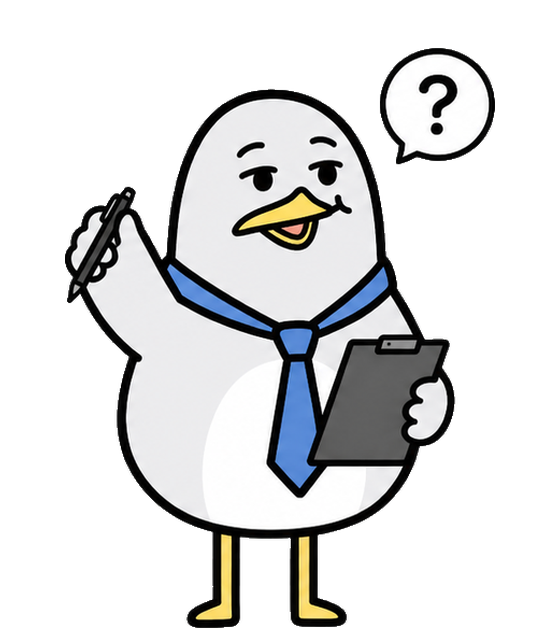
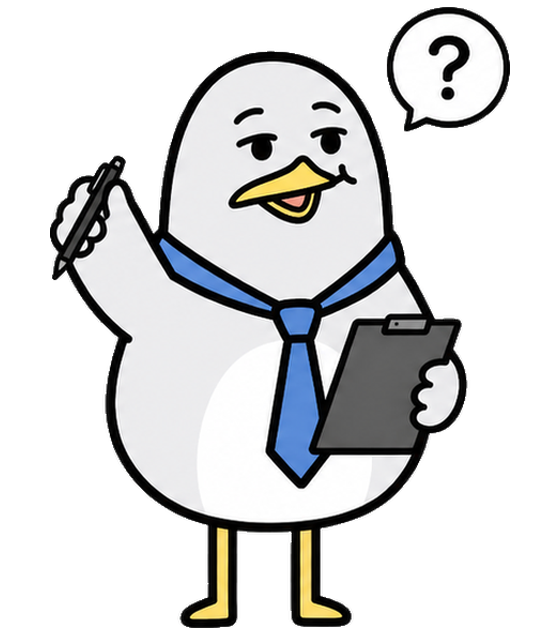
fix: 말풍선 포즈는 본체 높이 기준으로 스케일해 크기 맞춤
머리 위 장식을 실루엣에서 빼 본체가 작아지던 lv1 pose-01 등을 다른 전신과 같은 본체 높이로 맞춘다.

Changed region(s): [[0.0911, 0.0, 0.9107, 1.0]]

diff --git a/scripts/normalize_stage_sprites.py b/scripts/normalize_stage_sprites.py
@@ -1,42 +1,76 @@
-"""Normalize interviewer full-body/pose sprites to identical canvas + silhouette height."""
+"""Normalize stage sprites to identical body silhouette height (excludes speech bubbles/stars)."""
 from __future__ import annotations
 
 from pathlib import Path
 
 import numpy as np
 from PIL import Image
+from scipy import ndimage
 
 ROOT = Path(__file__).resolve().parents[1] / "public" / "interviewers"
 CANVAS_W, CANVAS_H = 560, 640
-TARGET_H = 580
+TARGET_BODY_H = 580
 PAD_BOTTOM = 12
+STRUCT = ndimage.generate_binary_structure(2, 2)
 
 
-def content_bbox(im: Image.Image) -> tuple[int, int, int, int]:
-    arr = np.array(im)
-    alpha = arr[..., 3] > 0
-    ys, xs = np.where(alpha)
-    return int(xs.min()), int(ys.min()), int(xs.max()) + 1, int(ys.max()) + 1
+def body_mask(arr: np.ndarray) -> np.ndarray:
+    opaque = arr[..., 3] > 0
+    labels, n = ndimage.label(opaque, structure=STRUCT)
+    if n == 0:
+        return opaque
+    sizes = ndimage.sum(opaque, labels, index=np.arange(1, n + 1))
+    main_id = int(np.argmax(sizes)) + 1
+    main = labels == main_id
+    main_size = float(sizes[main_id - 1])
+    main_top = int(np.where(main)[0].min())
+    main_h = int(np.where(main)[0].max() - main_top + 1)
+    body = main.copy()
+    dilated = ndimage.binary_dilation(main, structure=STRUCT, iterations=18)
+    for i in range(1, n + 1):
+        if i == main_id:
+            continue
+        m = labels == i
+        ys = np.where(m)[0]
+        top = int(ys.min())
+        size = float(sizes[i - 1])
+        if size < main_size * 0.18 and (top < main_top or float(ys.mean()) < main_top + main_h * 0.18):
+            continue
+        if (m & dilated).any() or int(ys.max()) >= main_top:
+            body |= m
+    return body
 
 
 def normalize(path: Path) -> None:
     im = Image.open(path).convert("RGBA")
-    l, t, r, b = content_bbox(im)
-    crop = im.crop((l, t, r, b))
-    cw, ch = crop.size
-    scale = TARGET_H / ch
-    new_w = max(1, int(round(cw * scale)))
-    resized = crop.resize((new_w, TARGET_H), Image.Resampling.LANCZOS)
-    canvas = Image.new("RGBA", (CANVAS_W, CANVAS_H), (0, 0, 0, 0))
+    arr = np.array(im)
+    body = body_mask(arr)
+    ys = np.where(body)[0]
+    bt, bb = int(ys.min()), int(ys.max())
+    body_h = bb - bt + 1
+    full = arr[..., 3] > 0
+    fys, fxs = np.where(full)
+    ft, fb, fl, fr = int(fys.min()), int(fys.max()), int(fxs.min()), int(fxs.max())
+    crop = im.crop((fl, ft, fr + 1, fb + 1))
+    body_top_in_crop = bt - ft
+    scale = TARGET_BODY_H / body_h
+    new_w = max(1, int(round(crop.width * scale)))
+    new_h = max(1, int(round(crop.height * scale)))
+    resized = crop.resize((new_w, new_h), Image.Resampling.LANCZOS)
+    body_bottom_scaled = int(round((body_top_in_crop + body_h) * scale))
+    y = (CANVAS_H - PAD_BOTTOM) - body_bottom_scaled
     x = (CANVAS_W - new_w) // 2
-    y = CANVAS_H - PAD_BOTTOM - TARGET_H
     if new_w > CANVAS_W:
         left = (new_w - CANVAS_W) // 2
-        resized = resized.crop((left, 0, left + CANVAS_W, TARGET_H))
+        resized = resized.crop((left, 0, left + CANVAS_W, new_h))
         x = 0
+    if y < 0:
+        resized = resized.crop((0, -y, resized.width, resized.height))
+        y = 0
+    canvas = Image.new("RGBA", (CANVAS_W, CANVAS_H), (0, 0, 0, 0))
     canvas.alpha_composite(resized, (x, y))
     canvas.save(path, "PNG", optimize=True)
-    print(f"OK {path.name} -> {CANVAS_W}x{CANVAS_H} silhouette_h={TARGET_H}", flush=True)
+    print(f"OK {path.name} body_h={body_h} scale={scale:.3f}", flush=True)
 
 
 def main() -> None:
@@ -49,8 +83,6 @@ def main() -> None:
     for f in files:
         if f.exists():
             normalize(f)
-        else:
-            print(f"MISSING {f}", flush=True)
 
 
 if __name__ == "__main__":